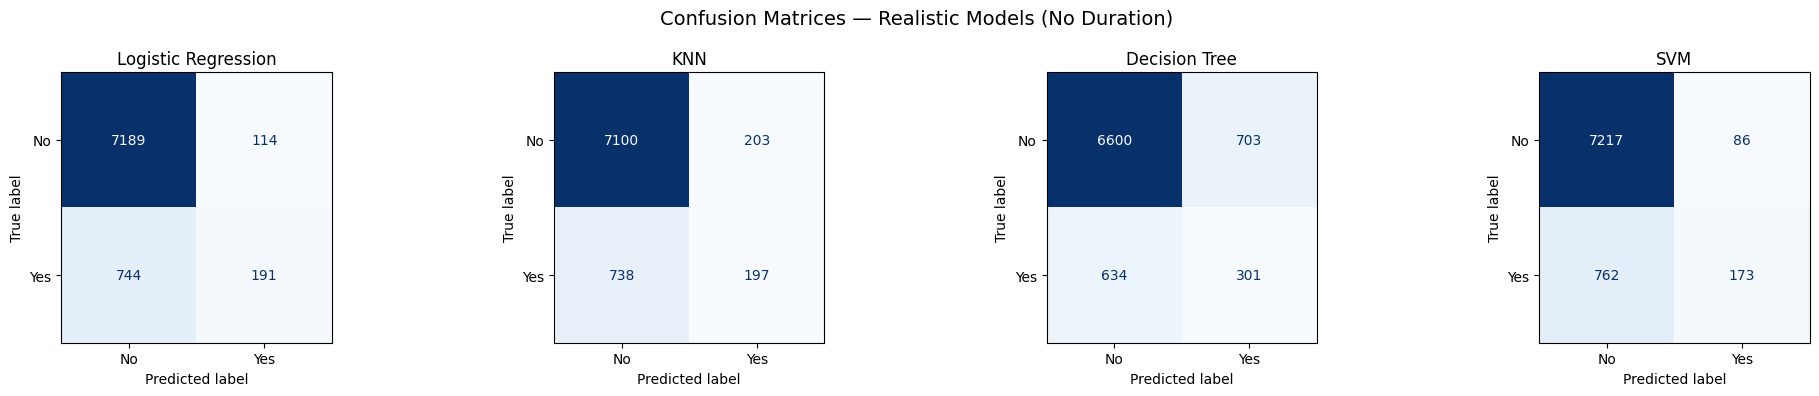
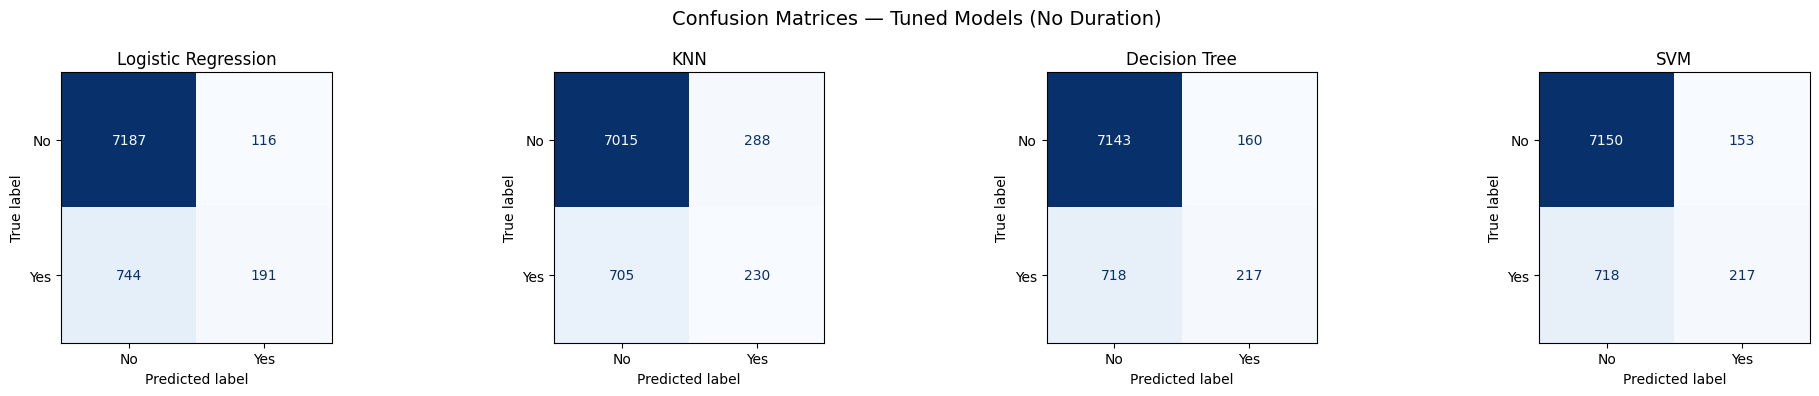
feat: update model recommendation, add StandardScaler and GridSearchCV, and include confusion matrix visualization in notebook

diff --git a/README.md b/README.md
@@ -26,7 +26,7 @@ Source: [UCI Machine Learning Repository - Bank Marketing](https://archive.ics.u
 
 ## Key Findings
 
-**Decision Tree was the recommended model** (F1: 0.33, identified 301/935 subscribers). While all models achieved ~89% accuracy, this is barely above the 88.8% baseline of always predicting "no." F1-score revealed the real differences.
+**Decision Tree was the recommended model** (F1: 0.33, identified 217/935 subscribers). While all models achieved ~89% accuracy, this is barely above the 88.8% baseline of always predicting "no." Decision Tree and SVM tied on F1 and recall, but Decision Tree trains 275x faster and produces interpretable results.
 
 ![Model Performance Comparison](./images/model_comparison.png)
 
